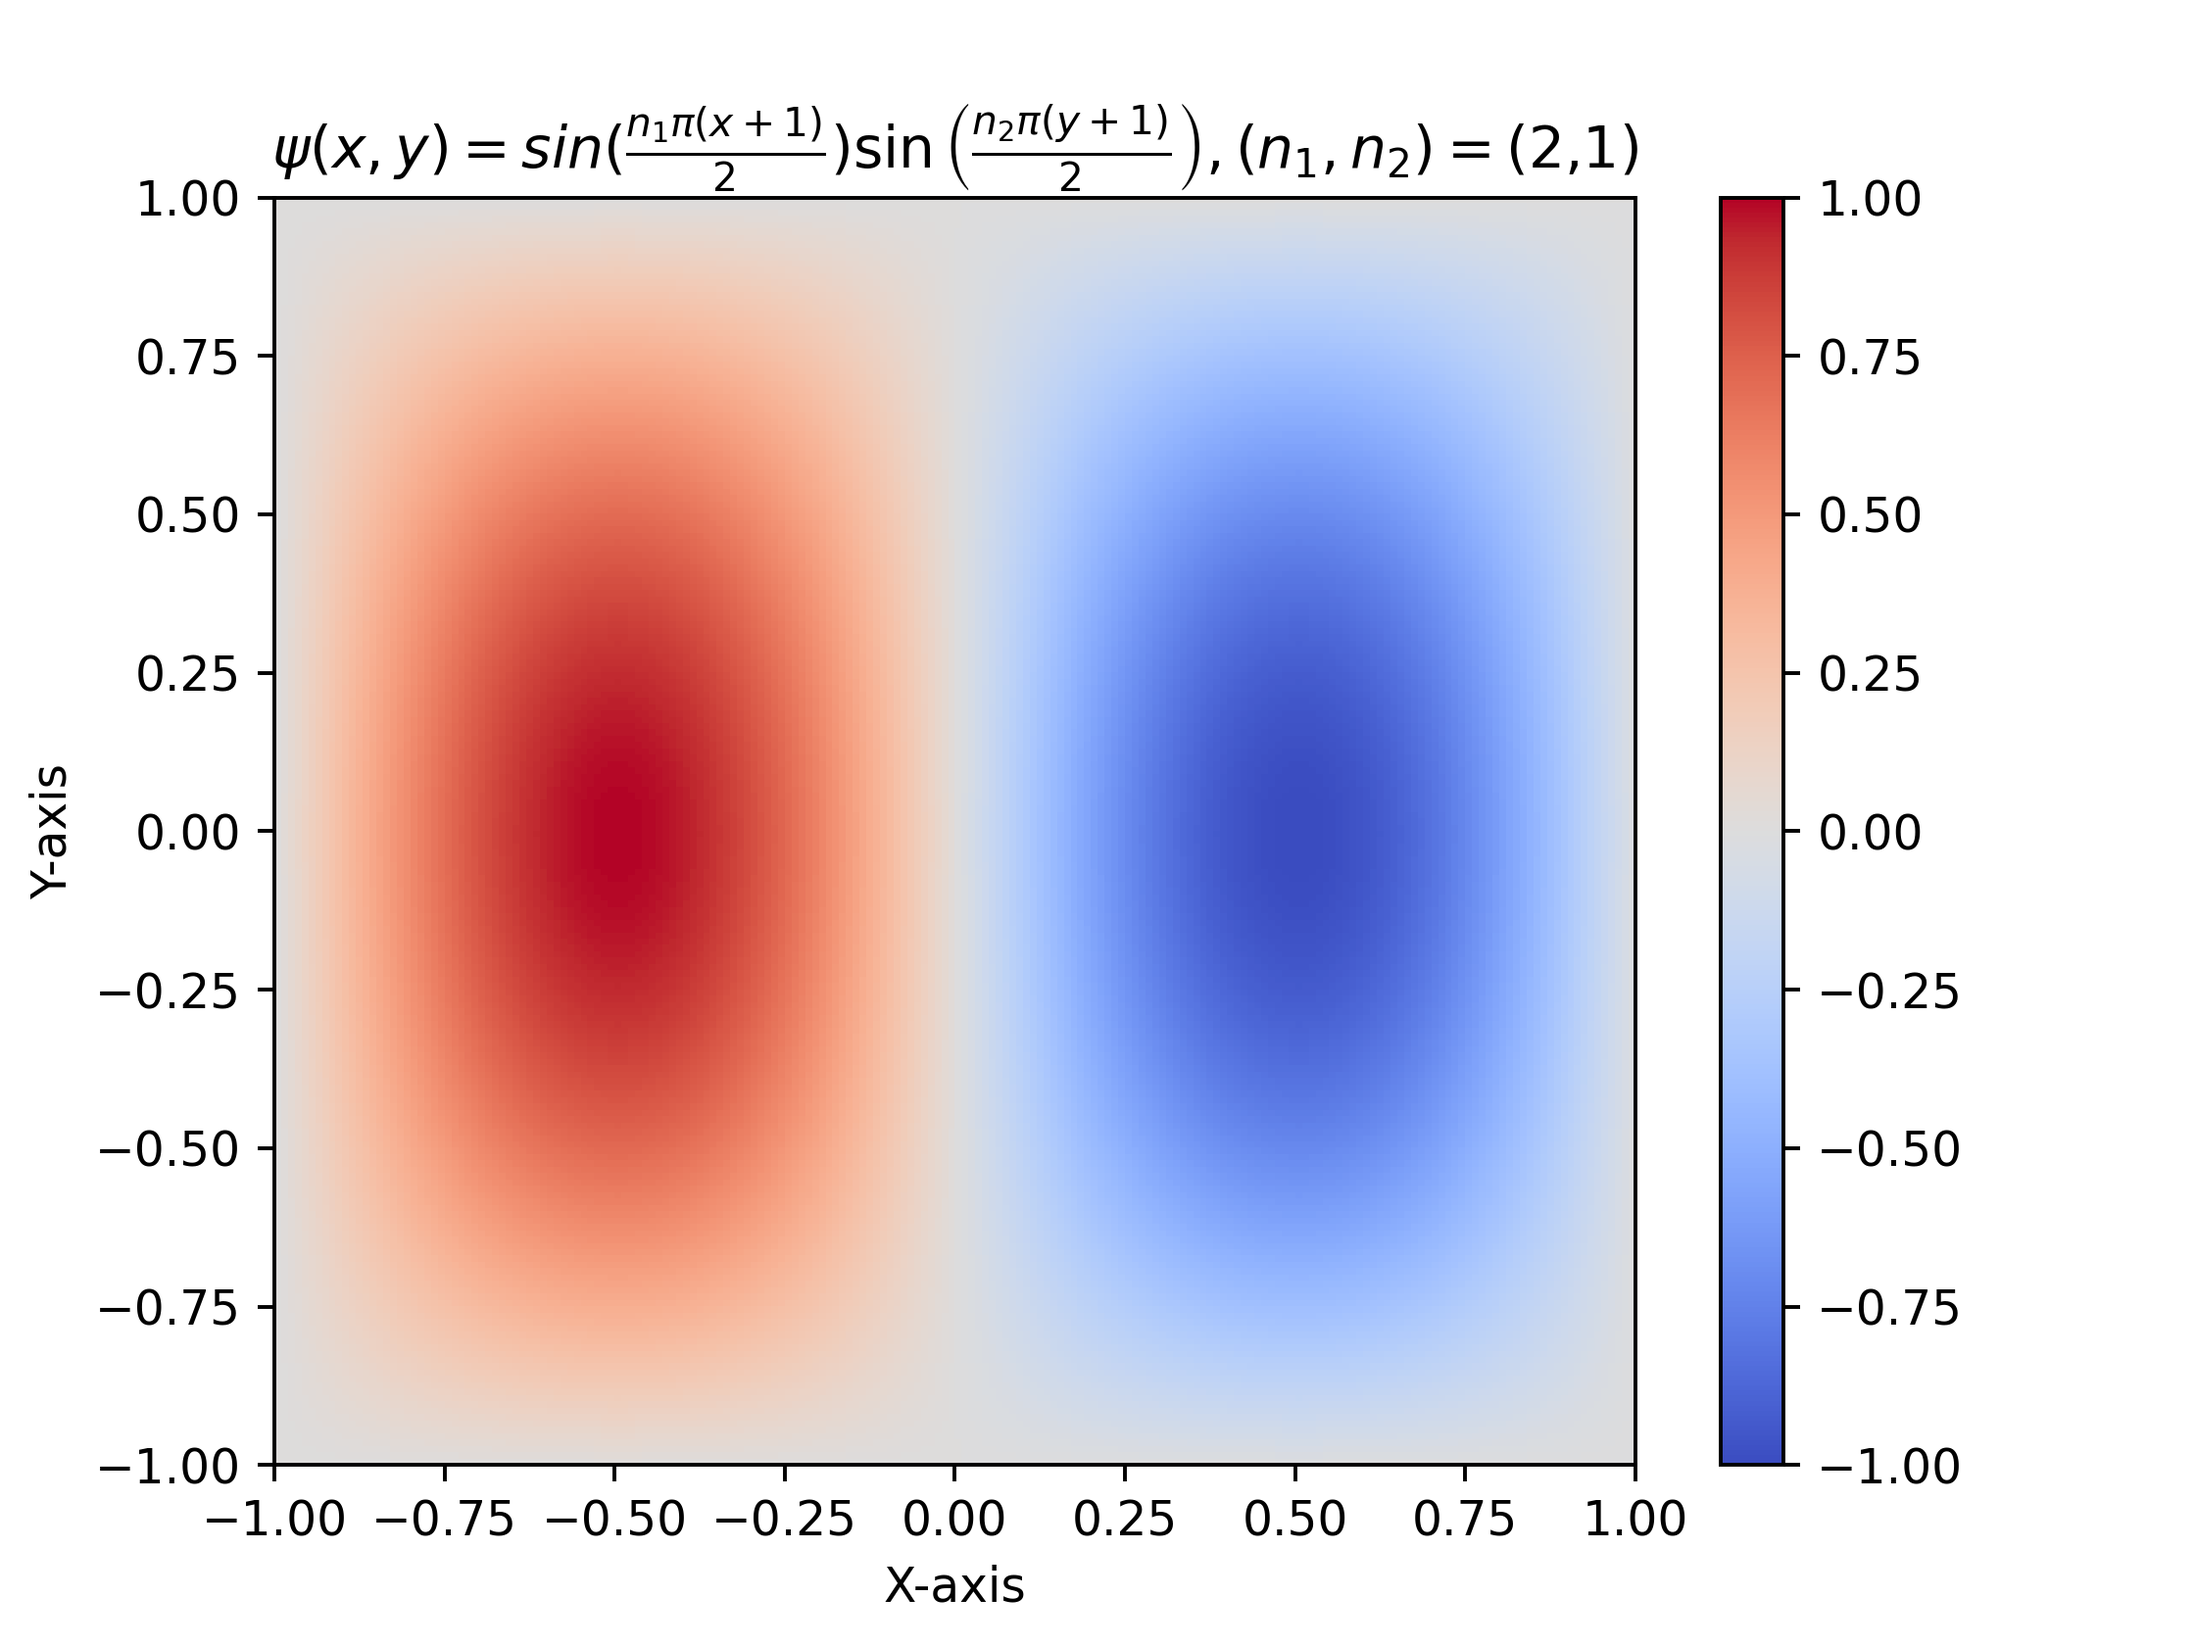
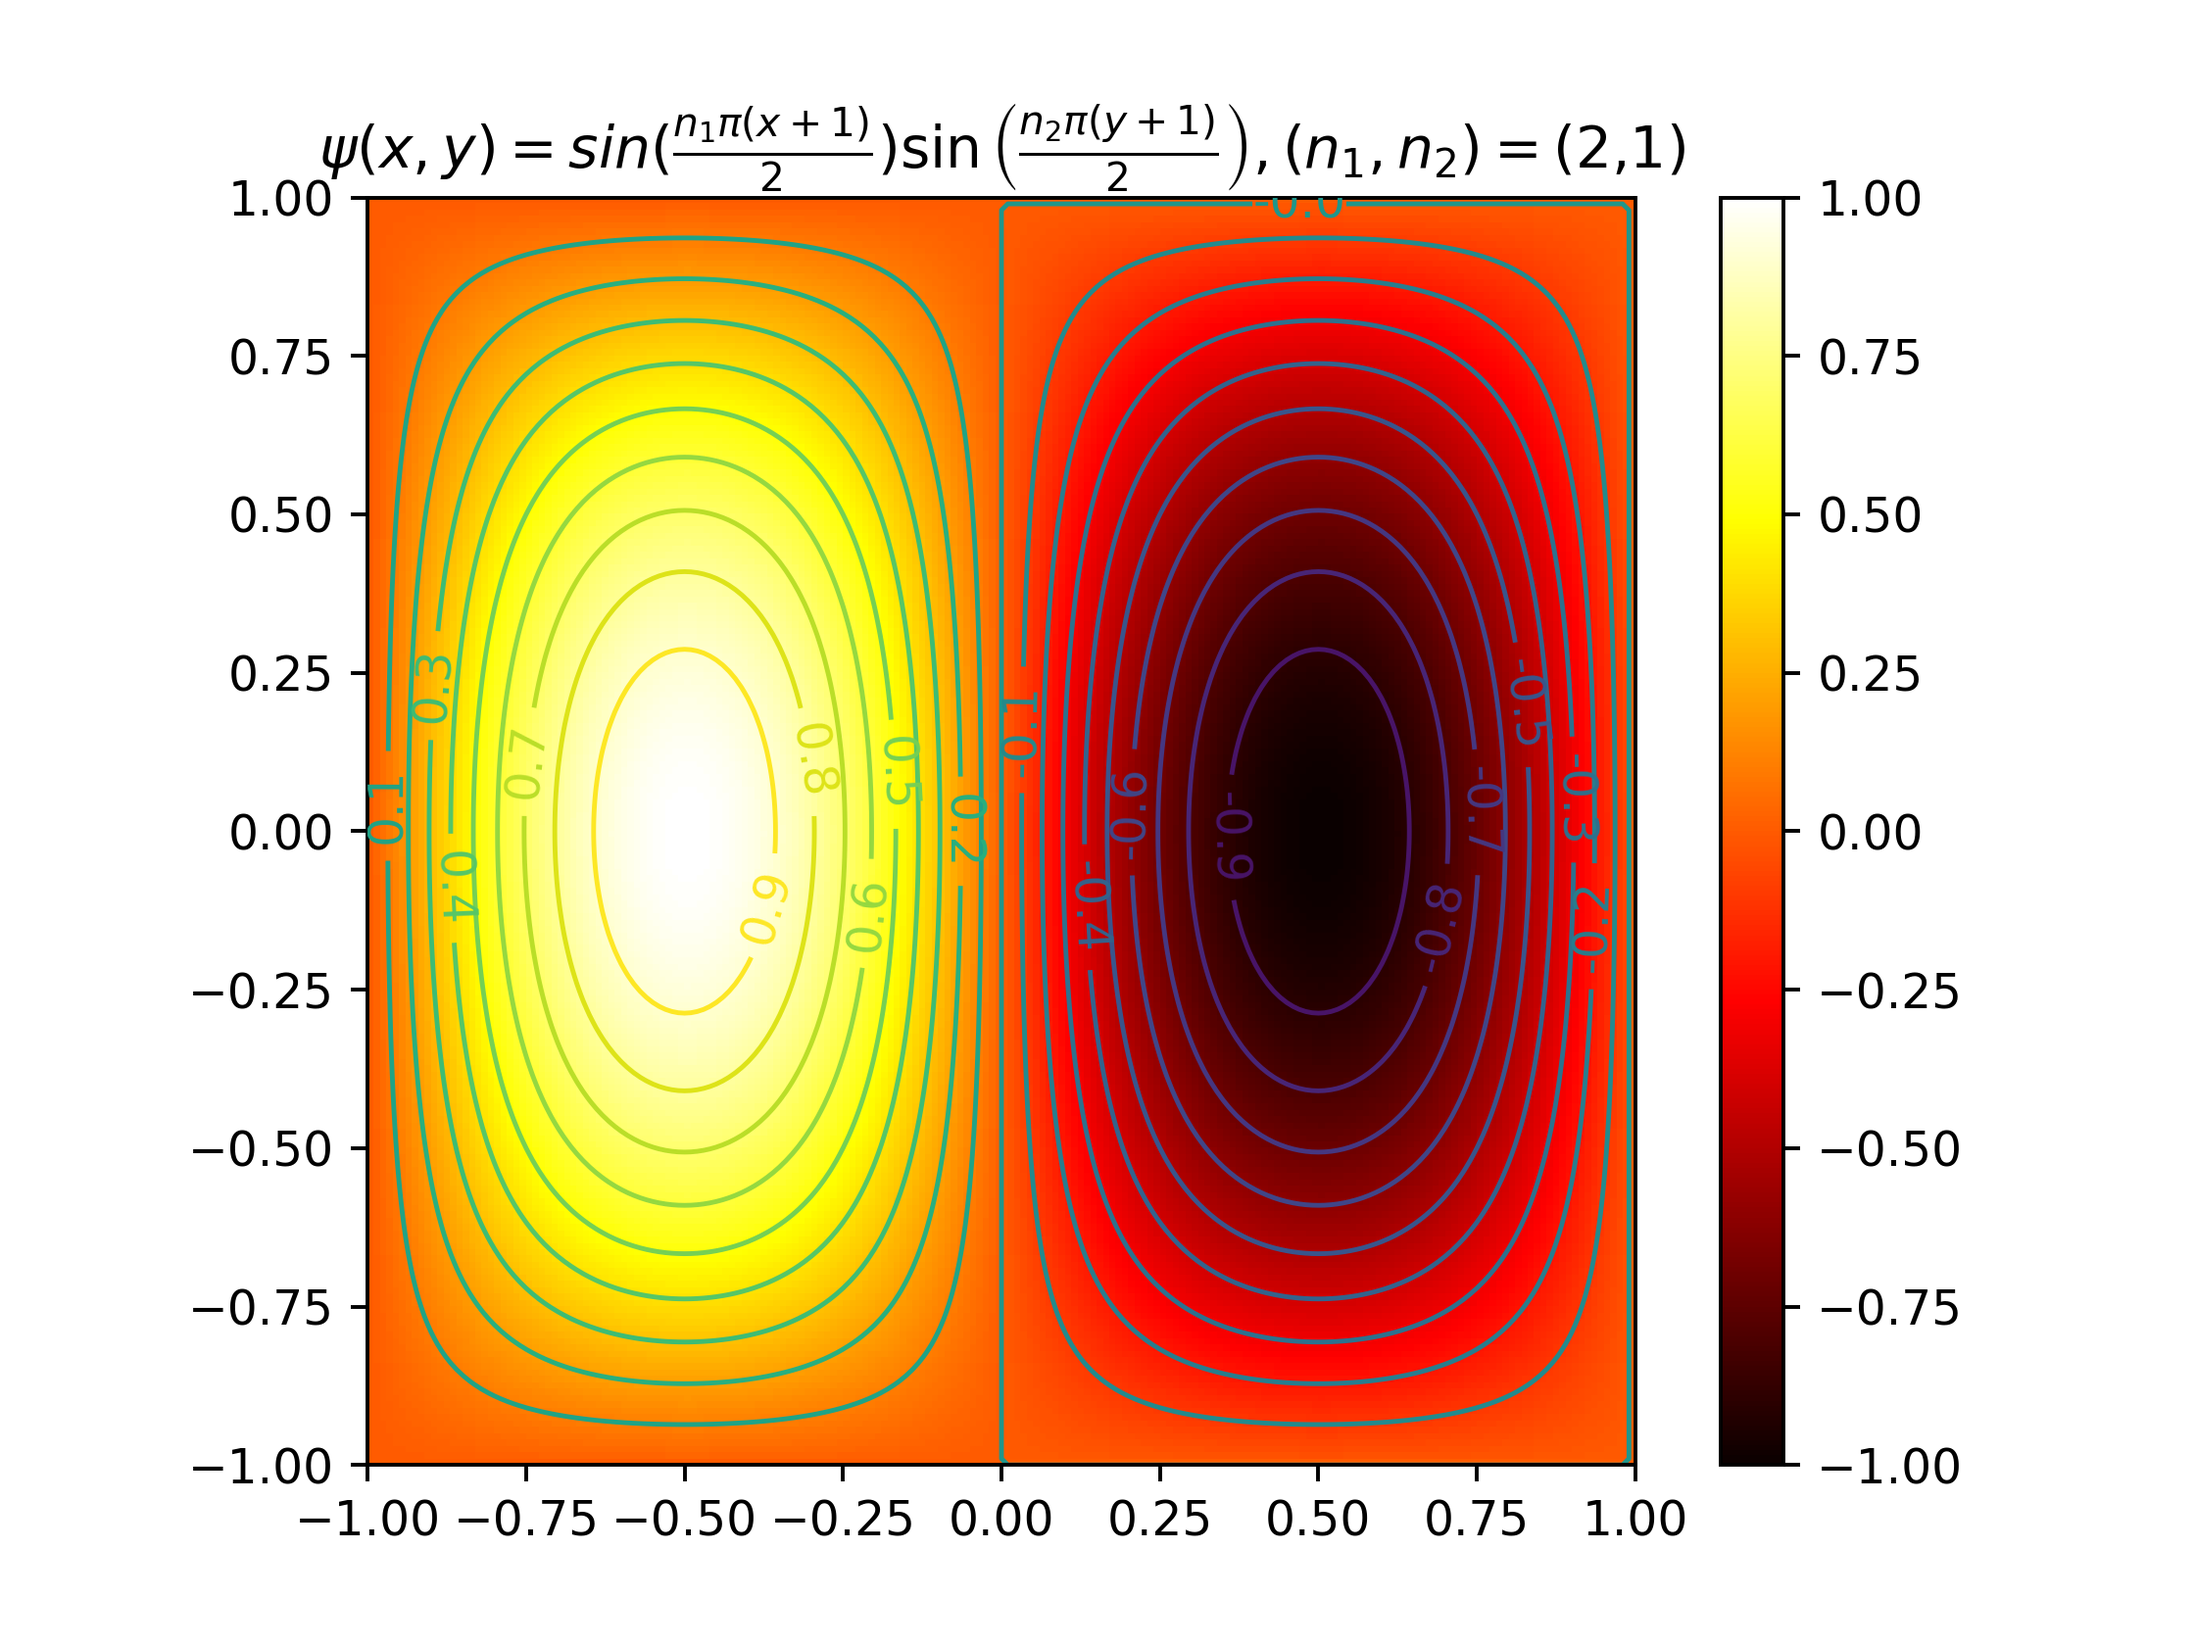
lab10

diff --git a/lab10/Lukasz-Stepien-laboratorium-10-kod.py b/lab10/Lukasz-Stepien-laboratorium-10-kod.py
@@ -1,30 +1,31 @@
-from numpy import arange,sin,pi,abs,linspace
-from pylab import meshgrid,cm,imshow,contour,clabel,colorbar,axis,title,show
-import latexify
+import numpy as np
+from pylab import meshgrid,cm,imshow,contour,clabel,colorbar,title
 import matplotlib.pyplot as plt
-from mpl_toolkits.mplot3d import Axes3D
-import matplotlib.ticker as ticker
 
 def psi(x,y,L,n1,n2):
-    return (2/L)*sin((n1*pi*(x+L/2)/L))*sin((n2*pi*(y+L/2)/L))
+    return (2/L)*np.sin((n1*np.pi*(x+L/2)/L))*np.sin((n2*np.pi*(y+L/2)/L))
 
 def exact_graph(n1,n2):
     plt.clf()
-    x = arange(-1.0,1.0,10**(-2))
-    y = arange(-1.0,1.0,10**(-2))
+    if n2==1: tmp=1 
+    else: tmp=-1
+    x = np.arange(-1.0,1.0,10**(-2))
+    y = np.arange(-1.0,1.0,10**(-2))
     X,Y = meshgrid(x, y) 
-    Z = psi(X,Y,2,n1,n2) # evaluation of the function on the grid
-    im = imshow(Z,cmap=cm.coolwarm,extent=[-1, 1, -1, 1], aspect='auto') # drawing the function
-    cset = contour(Z,arange(-1,1.5,0.2),linewidths=1)
+    Z = psi(X,Y,2,n1,n2)
+    Z[:, 0] = 0
+    Z[:, -1] = 0
+    Z[0, :] = 0
+    Z[-1, :] = 0
+    im=imshow(Z,cmap=cm.hot, extent=[-1, 1, -1, 1])
+    cset = contour(x,y,tmp*Z, levels=np.arange(-1,1, 0.1),linewidths=1,extend='both')
     clabel(cset,inline=True,fmt='%1.1f',fontsize=10)
-    colorbar(im)
-    plt.xlabel('X-axis')
-    plt.ylabel('Y-axis')
     plt.xlim(-1, 1)
     plt.ylim(-1, 1)
+    colorbar(im)
     title(r'$\psi(x, y) = sin{({\frac{n_1 {\pi} \left( x + 1\right)}{2}})} \sin{\left({\frac{n_2 {\pi} \left( y + 1 \right)}{2}} \right)},  (n_1,n_2)=$'+f'({n1},{n2})')
-    plt.savefig(f"lab10/pictures/Wykres konturowy funkcji ψ(x,y) dla (n1,n2)=({n1},{n2})", dpi=350)
-    # plt.show()
+    # plt.savefig(f"lab10/pictures/Wykres konturowy funkcji ψ(x,y) dla (n1,n2)=({n1},{n2})", dpi=350)
+    plt.show()
     return Z
     
 Z11=exact_graph(1,1)
@@ -32,4 +33,4 @@ Z12=exact_graph(1,2)
 Z21=exact_graph(2,1)
 Z22=exact_graph(2,2)
 
-print(Z22)
+# print(Z22)
